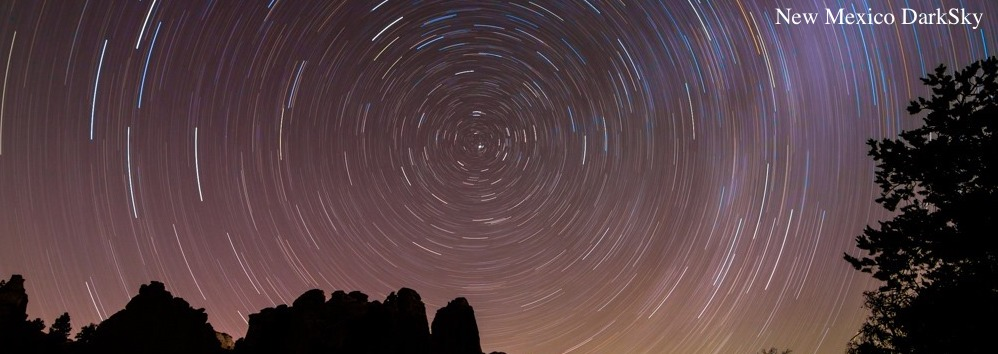
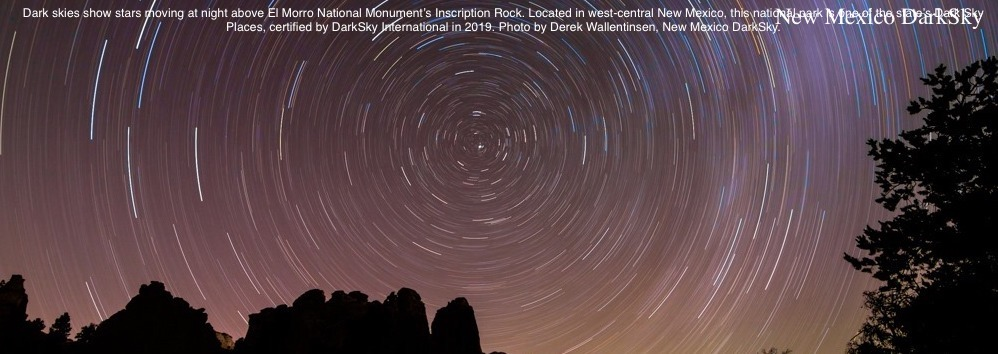
update images

Changed region(s): [[0.0311, 0.0311, 0.994, 0.0932]]

diff --git a/images.md b/images.md
@@ -3,11 +3,8 @@ layout: page
 title : Images
 ---
 
-![image](images/Skyglow-Images/Wallentinsen-8209-LosAlamos.jpg)
-![image](images/Skyglow-Images/Wallentinsen-8243-Albuquerque.jpg)
-![image](images/Skyglow-Images/Wallentinsen-8244-LosAlamos-LANL.jpg)
-![image](images/Skyglow-Images/Wallentinsen-8245-Espanola.jpg)
-![image](images/Skyglow-Images/Wallentinsen-8246-SF-ABQ.jpg)
-![image](images/Skyglow-Images/Wallentinsen-8250-SF-VC.jpg)
-![image](images/Skyglow-Images/Wallentinsen-8942-MtView-Zuni-Gallup.jpg)
-![image](images/Skyglow-Images/Wallentinsen-8955-ABQ-RGVly-Socorro-TorC.jpg)
+|![image](images/Skyglow-Images/Wallentinsen-8209-LosAlamos.jpg)| ![image](images/Skyglow-Images/Wallentinsen-8243-Albuquerque.jpg)| ![image](images/Skyglow-Images/Wallentinsen-8244-LosAlamos-LANL.jpg)| ![image](images/Skyglow-Images/Wallentinsen-8245-Espanola.jpg)|
+![image](images/Skyglow-Images/Wallentinsen-8246-SF-ABQ.jpg)| ![image](images/Skyglow-Images/Wallentinsen-8250-SF-VC.jpg)| ![image](images/Skyglow-Images/Wallentinsen-8942-MtView-Zuni-Gallup.jpg)|
+
+ ![image](images/Skyglow-Images/Wallentinsen-8955-ABQ-RGVly-Socorro-TorC.jpg)
+

diff --git a/index.md b/index.md
@@ -12,7 +12,7 @@ layout: home
 ![logo](logo.png)
 
 <center>
-<img src="images/elmorro.jpeg" alt="elmorro" width="100%"/> 
+<img src="images/elmorro.caption.jpeg" alt="elmorro" width="100%"/> 
 </center>
 
 ## Welcome to New Mexico DarkSky
